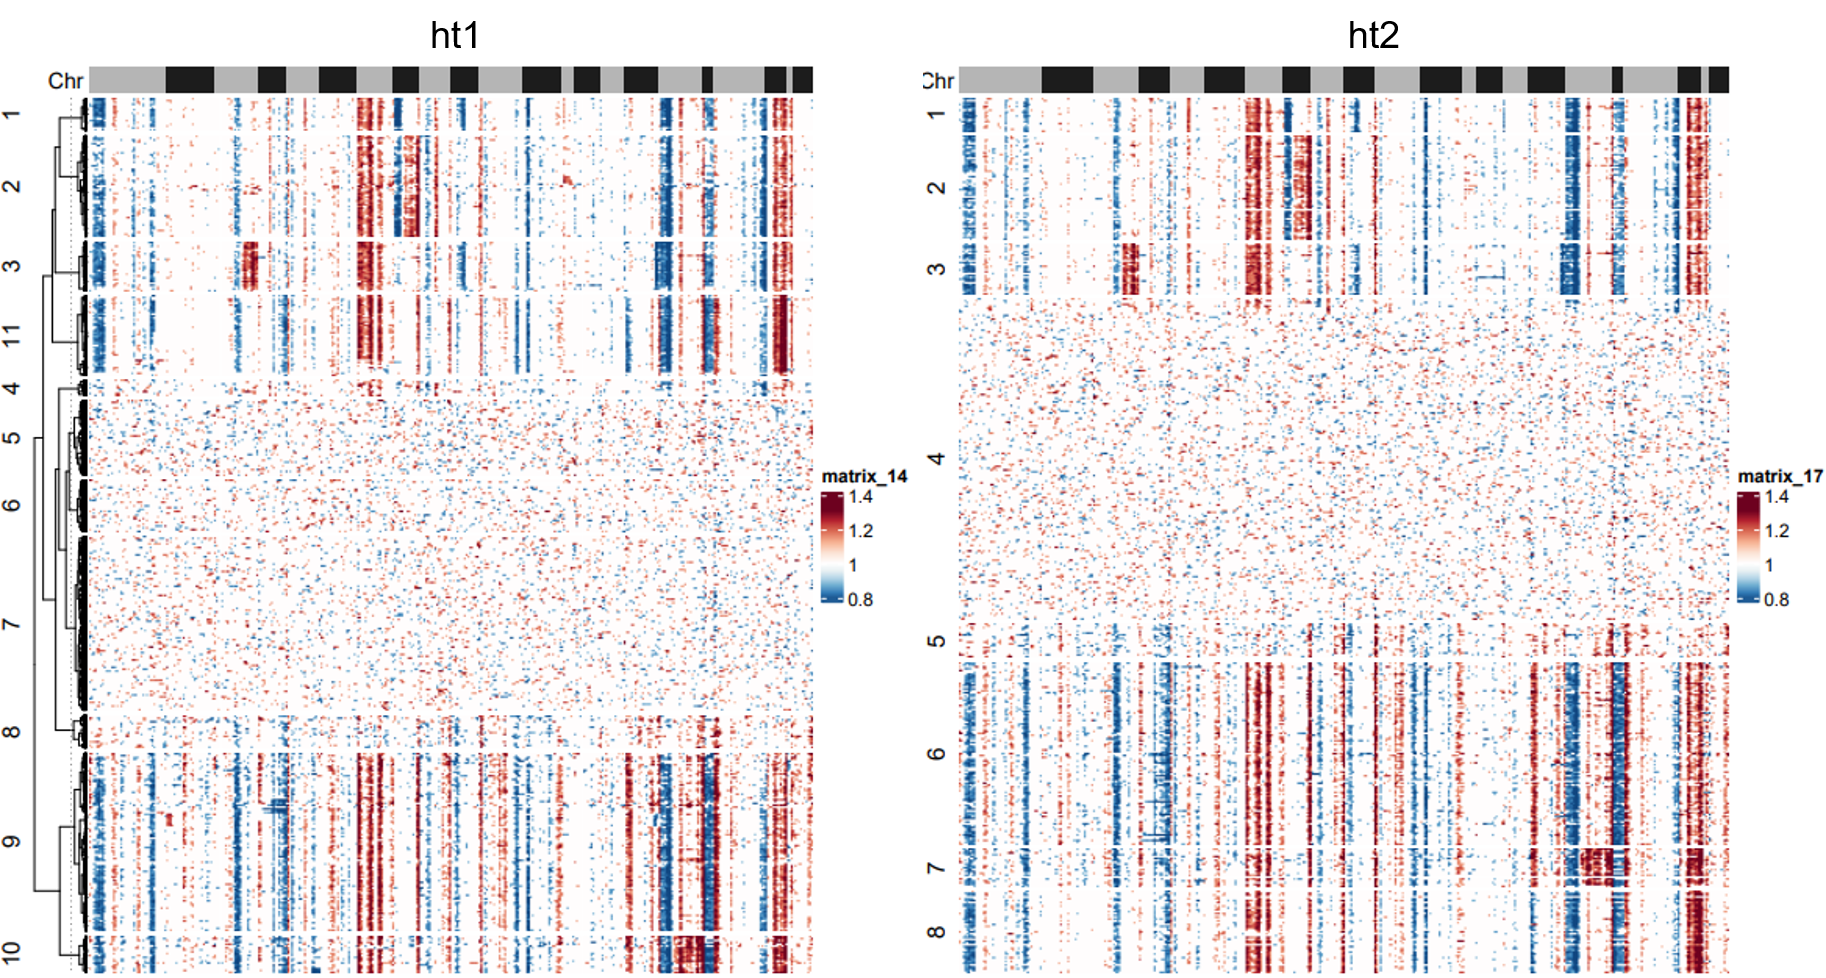
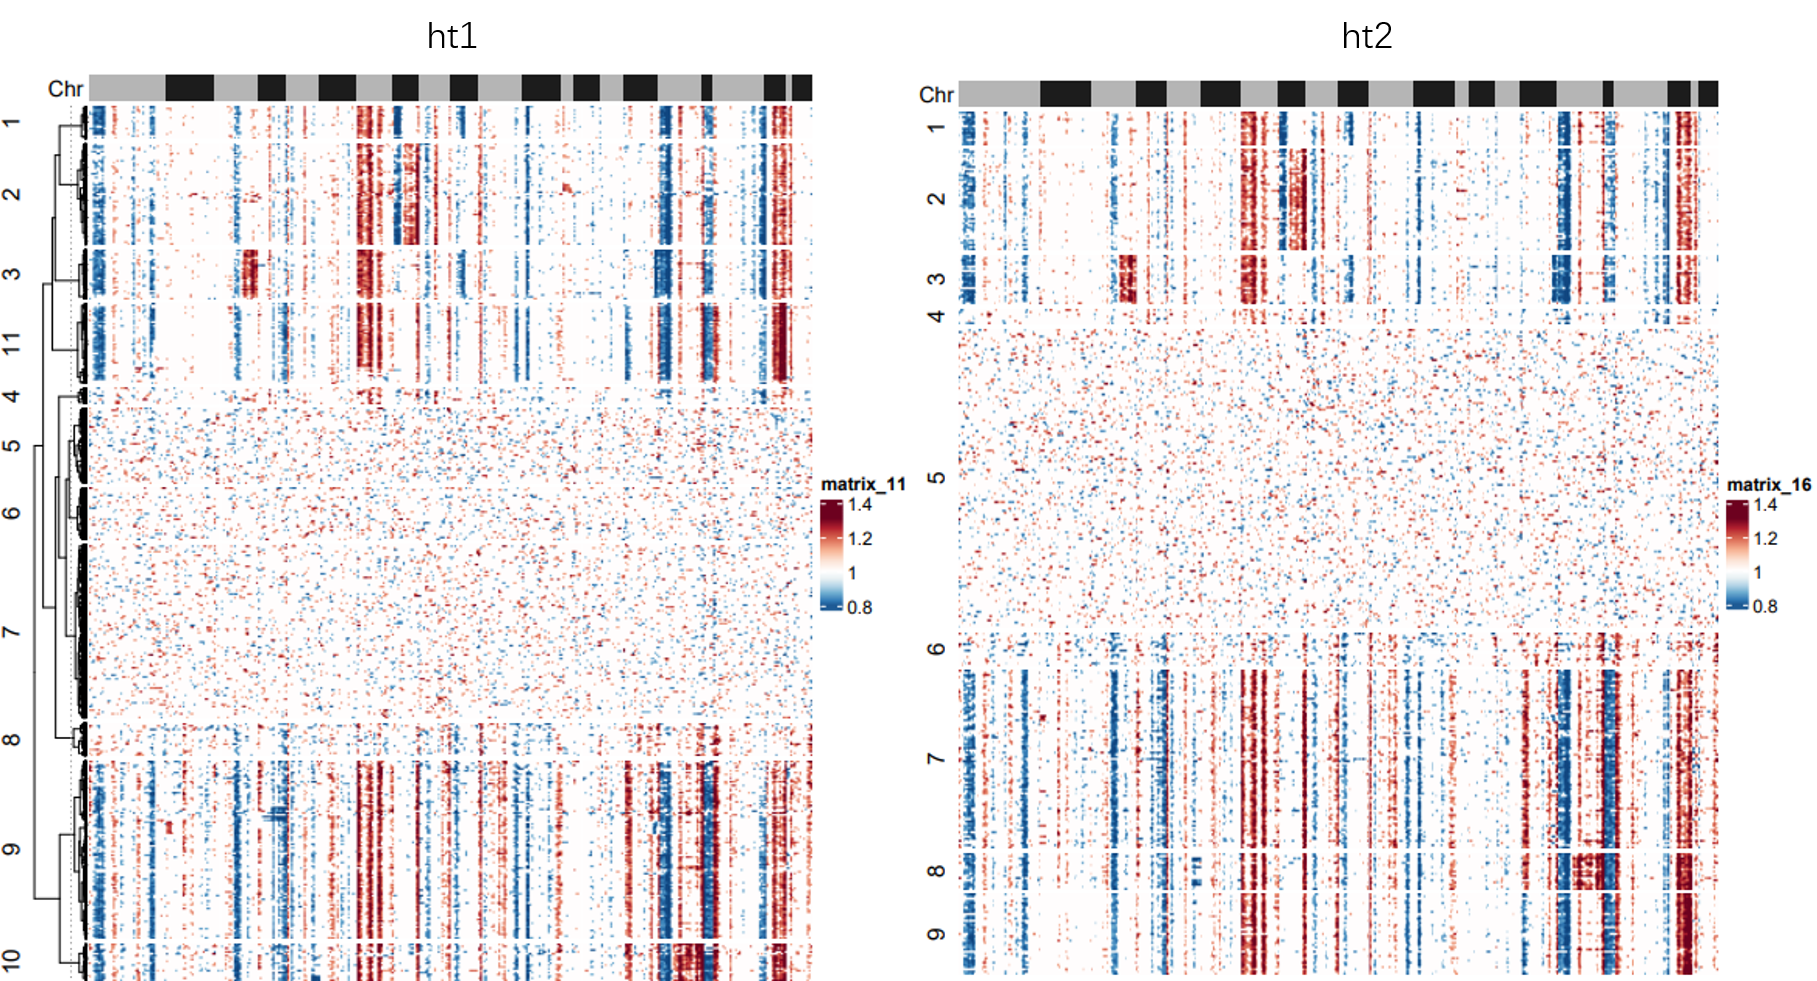
Update

diff --git a/TumorEvolution/README.md b/TumorEvolution/README.md
@@ -82,7 +82,7 @@ cl=SimilarityClustering(cnv_mat,mode='manual',select.cutoff=FALSE,
                         similarity.method='pearson',hc.method='ward.D2',cluster_num=11)
 
 # combine clusters with similar CNV profiles -> tumor clones
-cl1=ClusterCombine(cl,c(4,5,6,7),reorder=TRUE)
+cl1=ClusterCombine(cl,c(5,6,7),reorder=TRUE)
 ht2=Heatmap(cnv_mat,col=col_cnv,
            show_row_names=FALSE,show_column_names=FALSE,row_split=cl1[rownames(cnv_mat)],
            # cluster_rows=cluster_within_group(cnv_mat,cl),
@@ -105,7 +105,7 @@ cnv_mat_mean=cnv_mat %>% group_by(cl1) %>% summarise_if(is.numeric,mean) %>% dat
 # build phylogenetic tree using NJ method
 d=dist(cnv_mat_mean)
 nj_tree=ape::nj(d)
-rooted_tree=ape::root(nj_tree,outgroup='4',resolve.root=TRUE)
+rooted_tree=ape::root(nj_tree,outgroup='5',resolve.root=TRUE)
 p1=ggtree(rooted_tree)+
     theme_tree()+
     # geom_tippoint(size=5)+
